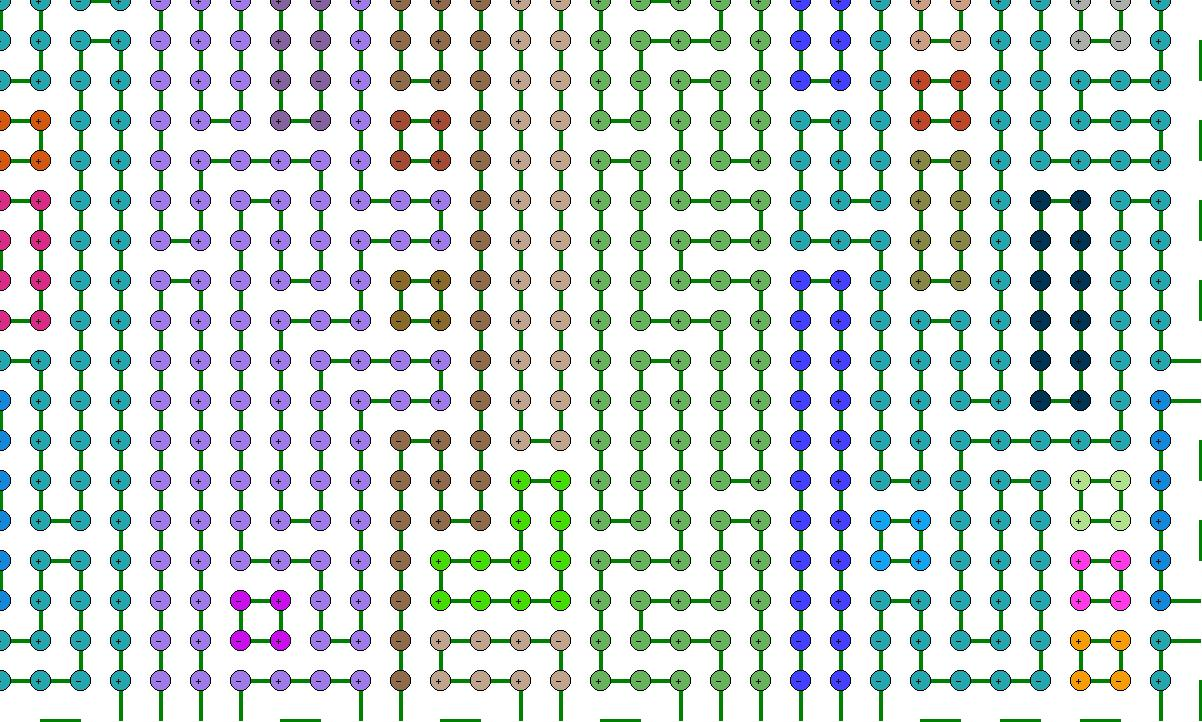
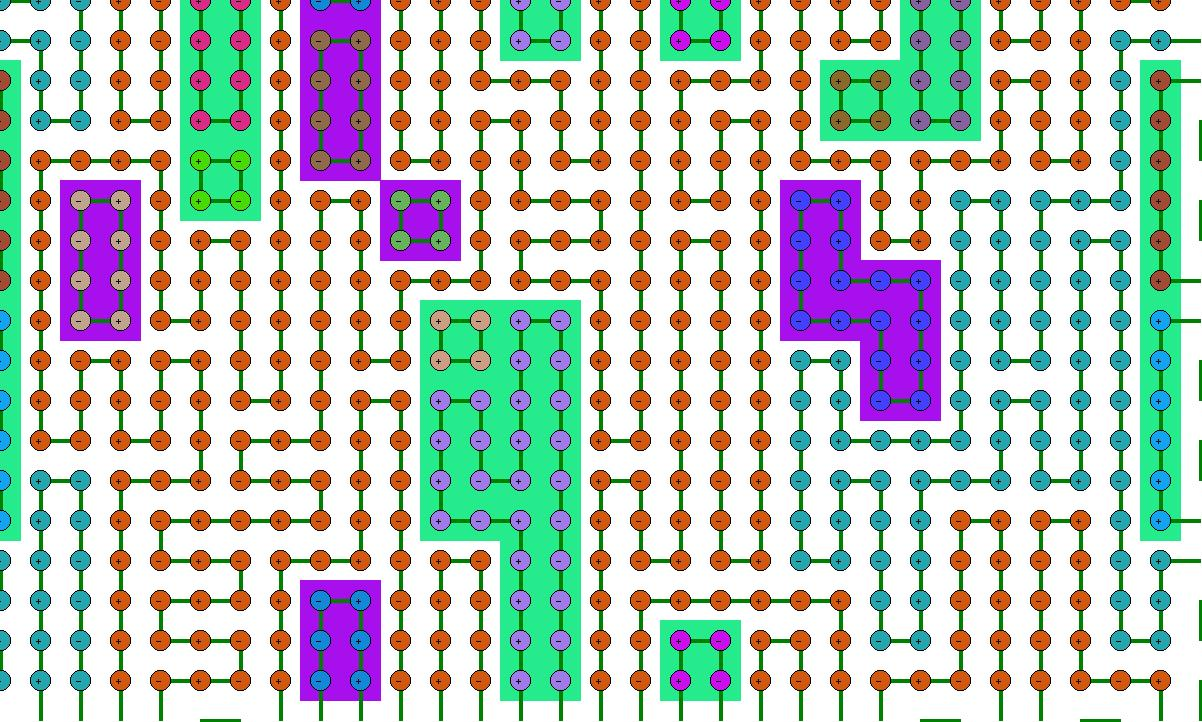
Implemented detection of which side of a charge a neutral sits

diff --git a/spinHalf.py b/spinHalf.py
@@ -1,6 +1,5 @@
 import random
 import numpy as np
-from itertools import product
 from PIL import Image, ImageDraw
 
 
@@ -35,19 +34,24 @@ class MeronAlgorithm:
 
     def _cluster_loop_step(self, x, y, visited):
         loop_closed = False
+        direction = -1
         if x % 2 == 0 and y % 2 == 0:
             # top
             if not self.bond[(x // 2 - 1) % (self.n // 2), (y - 1) % self.t] and not visited[x, (y - 1) % self.t]:
                 y -= 1
+                direction = 0
             # right
             elif self.bond[x // 2, y] and not visited[(x + 1) % self.n, y]:
                 x += 1
+                direction = 1
             # left
             elif self.bond[(x // 2 - 1) % (self.n // 2), (y - 1) % self.t] and not visited[(x - 1) % self.n, y]:
                 x -= 1
+                direction = 3
             # bottom
             elif not self.bond[x // 2, y] and not visited[x, (y + 1) % self.t]:
                 y += 1
+                direction = 2
             # closed loop
             else:
                 loop_closed = True
@@ -55,15 +59,19 @@ class MeronAlgorithm:
             # top
             if not self.bond[x // 2, (y - 1) % self.t] and not visited[x, (y - 1) % self.t]:
                 y -= 1
+                direction = 0
             # right
             elif self.bond[x // 2, (y - 1) % self.t] and not visited[(x + 1) % self.n, y]:
                 x += 1
+                direction = 1
             # left
             elif self.bond[x // 2, y] and not visited[(x - 1) % self.n, y]:
                 x -= 1
+                direction = 3
             # bottom
             elif not self.bond[x // 2, y] and not visited[x, (y + 1) % self.t]:
                 y += 1
+                direction = 2
             # closed loop
             else:
                 loop_closed = True
@@ -71,15 +79,19 @@ class MeronAlgorithm:
             # top
             if not self.bond[x // 2, (y - 1) % self.t] and not visited[x, (y - 1) % self.t]:
                 y -= 1
+                direction = 0
             # right
             elif self.bond[x // 2, (y - 1) % self.t] and not visited[(x + 1) % self.n, y]:
                 x += 1
+                direction = 1
             # left
             elif self.bond[(x // 2 - 1) % (self.n // 2), y] and not visited[(x - 1) % self.n, y]:
                 x -= 1
+                direction = 3
             # bottom
             elif not self.bond[(x // 2 - 1) % (self.n // 2), y] and not visited[x, (y + 1) % self.t]:
                 y += 1
+                direction = 2
             # closed loop
             else:
                 loop_closed = True
@@ -87,21 +99,25 @@ class MeronAlgorithm:
             # top
             if not self.bond[x // 2, (y - 1) % self.t] and not visited[x, (y - 1) % self.t]:
                 y -= 1
+                direction = 0
             # right
             elif self.bond[x // 2, y] and not visited[(x + 1) % self.n, y]:
                 x += 1
+                direction = 1
             # left
             elif self.bond[x // 2, (y - 1) % self.t] and not visited[(x - 1) % self.n, y]:
                 x -= 1
+                direction = 3
             # bottom
             elif not self.bond[x // 2, y] and not visited[x, (y + 1) % self.t]:
                 y += 1
+                direction = 2
             # closed loop
             else:
                 loop_closed = True
         x = x % self.n  # boundary conditions
         y = y % self.t
-        return x, y, loop_closed
+        return x, y, loop_closed, direction
 
     def tests(self):
         charge = np.zeros(self.cluster_id.max() + 1)
@@ -137,20 +153,21 @@ class MeronAlgorithm:
 
     # Places vertical and horizontal bonds with probability corresponding to wa_ and  w_b
     def _bond_assignment(self):
-        for x, y in product(range(self.n), range(self.t)):
-            if y % 2 != x % 2:
-                continue
-            # all occupied or all unoccupied
-            if self.fermion[x, y] == self.fermion[(x + 1) % self.n, y] and self.fermion[x, (y + 1) % self.t] == self.fermion[(x + 1) % self.n, (y + 1) % self.t]:
-                self.bond[x // 2, y] = False
-            # diagonal occupation
-            elif self.fermion[x, y] != self.fermion[x, (y + 1) % self.t]:
-                self.bond[x // 2, y] = True
-            # parallel occupation
-            else:
-                self.bond[x // 2, y] = False if random.random() < self.w_a / (self.w_a + self.w_b) else True
-            # calculate bond config in nicer lattice for debugging purposes
-            self.bond_debug[x, y] = self.bond[x // 2, y]
+        for x in range(self.n):
+            for y in range(self.t):
+                if y % 2 != x % 2:
+                    continue
+                # all occupied or all unoccupied
+                if self.fermion[x, y] == self.fermion[(x + 1) % self.n, y] and self.fermion[x, (y + 1) % self.t] == self.fermion[(x + 1) % self.n, (y + 1) % self.t]:
+                    self.bond[x // 2, y] = False
+                # diagonal occupation
+                elif self.fermion[x, y] != self.fermion[x, (y + 1) % self.t]:
+                    self.bond[x // 2, y] = True
+                # parallel occupation
+                else:
+                    self.bond[x // 2, y] = False if random.random() < self.w_a / (self.w_a + self.w_b) else True
+                # calculate bond config in nicer lattice for debugging purposes
+                self.bond_debug[x, y] = self.bond[x // 2, y]
 
     # reset to reference config
     def _reset(self):
@@ -176,22 +193,23 @@ class MeronAlgorithm:
         visited = np.full((self.n, self.t), False)  # record if site has been visited
         cluster_nr = 0  # counter for how many clusters there are -1 and the ID given to each of the clusters
         self.cluster_positions = []  # keeps one position of the cluster in order of cluster_id
-        for i, j in product(range(self.n), range(self.t)):  # check for a new cluster in all positions
-            if not visited[i, j]:  # if you haven't seen the loop before
-                x = i
-                y = j
-                self.cluster_positions.append([x, y])
-                # Go around a cluster loop
-                loop_closed = False
-                while not loop_closed:
-                    self.cluster_id[x, y] = cluster_nr  # give cluster its ID
-                    visited[x, y] = True  # Save where algorithm has been, so you don't go backwards around the loop
+        for j in range(self.t):
+            for i in range(self.n):
+                if not visited[i, j]:  # if you haven't seen the loop before
+                    x = i
+                    y = j
+                    self.cluster_positions.append([x, y])
+                    # Go around a cluster loop
+                    loop_closed = False
+                    while not loop_closed:
+                        self.cluster_id[x, y] = cluster_nr  # give cluster its ID
+                        visited[x, y] = True  # Save where algorithm has been, so you don't go backwards around the loop
 
-                    # update x and y to next position in cluster loop
-                    x, y, loop_closed = self._cluster_loop_step(x, y, visited)
+                        # update x and y to next position in cluster loop
+                        x, y, loop_closed, direction = self._cluster_loop_step(x, y, visited)
 
-                # look where to find next cluster
-                cluster_nr += 1
+                    # look where to find next cluster
+                    cluster_nr += 1
         self.cluster_nr = cluster_nr + 1
 
     def mc_step(self):
@@ -215,18 +233,68 @@ class MeronAlgorithm:
             else:
                 self.cluster_charge[self.cluster_id[i, 0]] -= 1
 
-                # determine order of charged clusters
+        # determine order of charged clusters
         charged_cluster_order = []
         for i in range(self.n):
-            if self.cluster_charge[self.cluster_id[i, 0]] != 0:
+            if self.cluster_charge[self.cluster_id[i, 0]] != 0 and not self.cluster_id[i, 0] in charged_cluster_order:
                 charged_cluster_order.append(self.cluster_id[i, 0])
 
-        
+        if len(charged_cluster_order) > 0:
+            # correct the top leftmost position of leftmost charged cluster
+            x = self.cluster_positions[charged_cluster_order[-1]][0]
+            while self.cluster_id[x, 0] != charged_cluster_order[0]:
+                x = (x+1) % self.n
+            self.cluster_positions[charged_cluster_order[0]][0] = x
+
+        # go around charged clusters and identify neutral clusters to the left and right
+        visited = np.zeros((self.n, self.t))
+        self.cluster_group = np.full(self.cluster_nr, -1)
+
+        for charged_cluster in range(len(charged_cluster_order)):
+            x = self.cluster_positions[charged_cluster_order[charged_cluster]][0]
+            y = 0
+            closed_loop = False
+            while not closed_loop:
+                x, y, closed_loop, direction = self._cluster_loop_step(x, y, visited)
+                visited[x, y] = True
+                if direction == 0:
+                    if self.cluster_charge[self.cluster_id[(x-1)%self.n, y]] == 0 and self.cluster_group[self.cluster_id[(x-1)%self.n, y]] == -1:
+                        self.cluster_group[self.cluster_id[(x-1)%self.n, y]] = charged_cluster_order[charged_cluster-1]
+                    if self.cluster_charge[self.cluster_id[(x+1)%self.n, y]] == 0 and self.cluster_group[self.cluster_id[(x+1)%self.n, y]] == -1:
+                        self.cluster_group[self.cluster_id[(x+1)%self.n, y]] = charged_cluster_order[charged_cluster]
+                elif direction == 1:
+                    if self.cluster_charge[self.cluster_id[x, (y-1)%self.t]] == 0 and self.cluster_group[self.cluster_id[x, (y-1)%self.t]] == -1:
+                        self.cluster_group[self.cluster_id[x, (y-1)%self.t]] = charged_cluster_order[charged_cluster-1]
+                    if self.cluster_charge[self.cluster_id[x, (y+1)%self.t]] == 0 and self.cluster_group[self.cluster_id[x, (y+1)%self.t]] == -1:
+                        self.cluster_group[self.cluster_id[x, (y+1)%self.t]] = charged_cluster_order[charged_cluster]
+                elif direction == 2:
+                    if self.cluster_charge[self.cluster_id[(x-1)%self.n, y]] == 0 and self.cluster_group[self.cluster_id[(x-1)%self.n, y]] == -1:
+                        self.cluster_group[self.cluster_id[(x-1)%self.n, y]] = charged_cluster_order[charged_cluster]
+                    if self.cluster_charge[self.cluster_id[(x+1)%self.n, y]] == 0 and self.cluster_group[self.cluster_id[(x+1)%self.n, y]] == -1:
+                        self.cluster_group[self.cluster_id[(x+1)%self.n, y]] = charged_cluster_order[charged_cluster - 1]
+                elif direction == 3:
+                    if self.cluster_charge[self.cluster_id[x, (y-1)%self.t]] == 0 and self.cluster_group[self.cluster_id[x, (y-1)%self.t]] == -1:
+                        self.cluster_group[self.cluster_id[x, (y-1)%self.t]] = charged_cluster_order[charged_cluster]
+                    if self.cluster_charge[self.cluster_id[x, (y+1)%self.t]] == 0 and self.cluster_group[self.cluster_id[x, (y+1)%self.t]] == -1:
+                        self.cluster_group[self.cluster_id[x, (y+1)%self.t]] = charged_cluster_order[charged_cluster-1]
+        # create picture for debugging
+        self.draw_bonds()
+        print('test')
+        self.draw_bonds()
+
+
 
     def draw_bonds(self):
         scale = 40
         image = Image.new("RGB", (scale*self.n + 2, scale*self.t+2), "white")
         draw = ImageDraw.Draw(image)
+        for x in range(self.n):
+            for y in range(self.t):
+                if self.cluster_group[self.cluster_id[x,y]] != -1:
+                    np.random.seed(self.cluster_group[self.cluster_id[x,y]] + 1)
+                    color = tuple(np.append(np.random.choice(range(256), size=3), 127))
+                    draw.rectangle(((x-0.5)*scale, (y-0.5)*scale, (x+0.5)*scale, (y+0.5)*scale), fill=color)
+
         for x in range(self.n):
             for y in range(self.t):
                 if self.bond_debug[x, y] == 1:
@@ -261,7 +329,6 @@ def main():
 
     for mc in range(mc_steps):
         Algorithm.mc_step()
-    Algorithm.draw_bonds()
 
 
 
